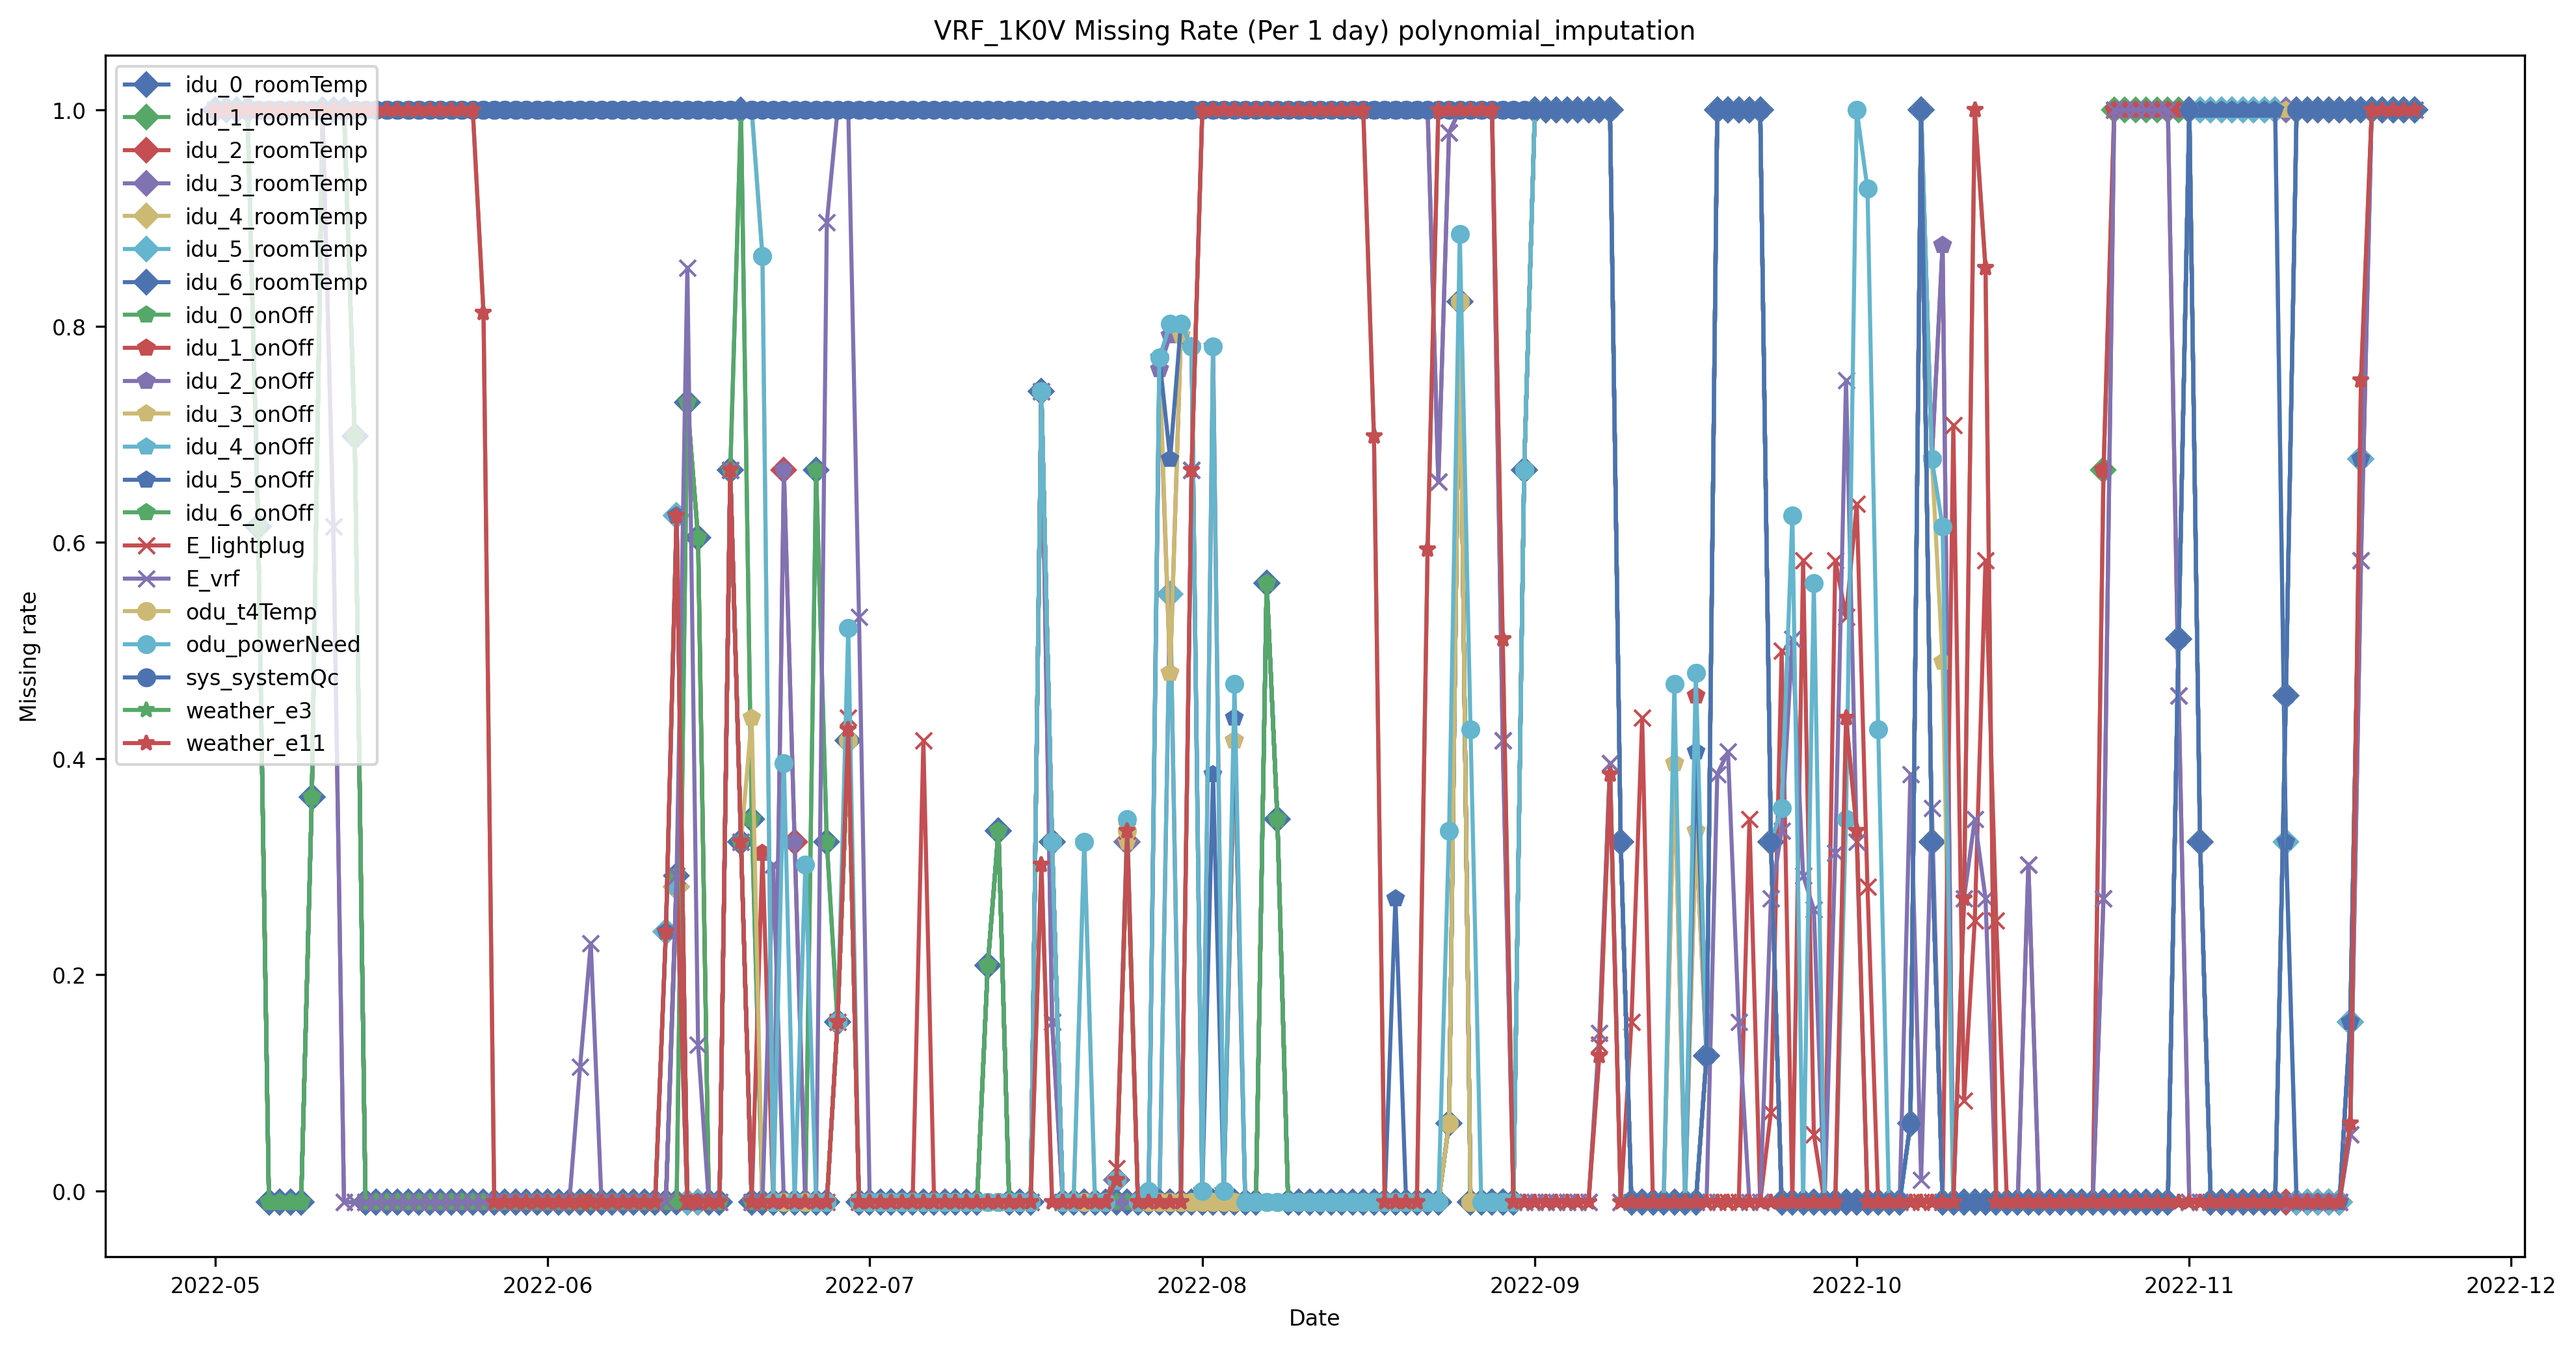
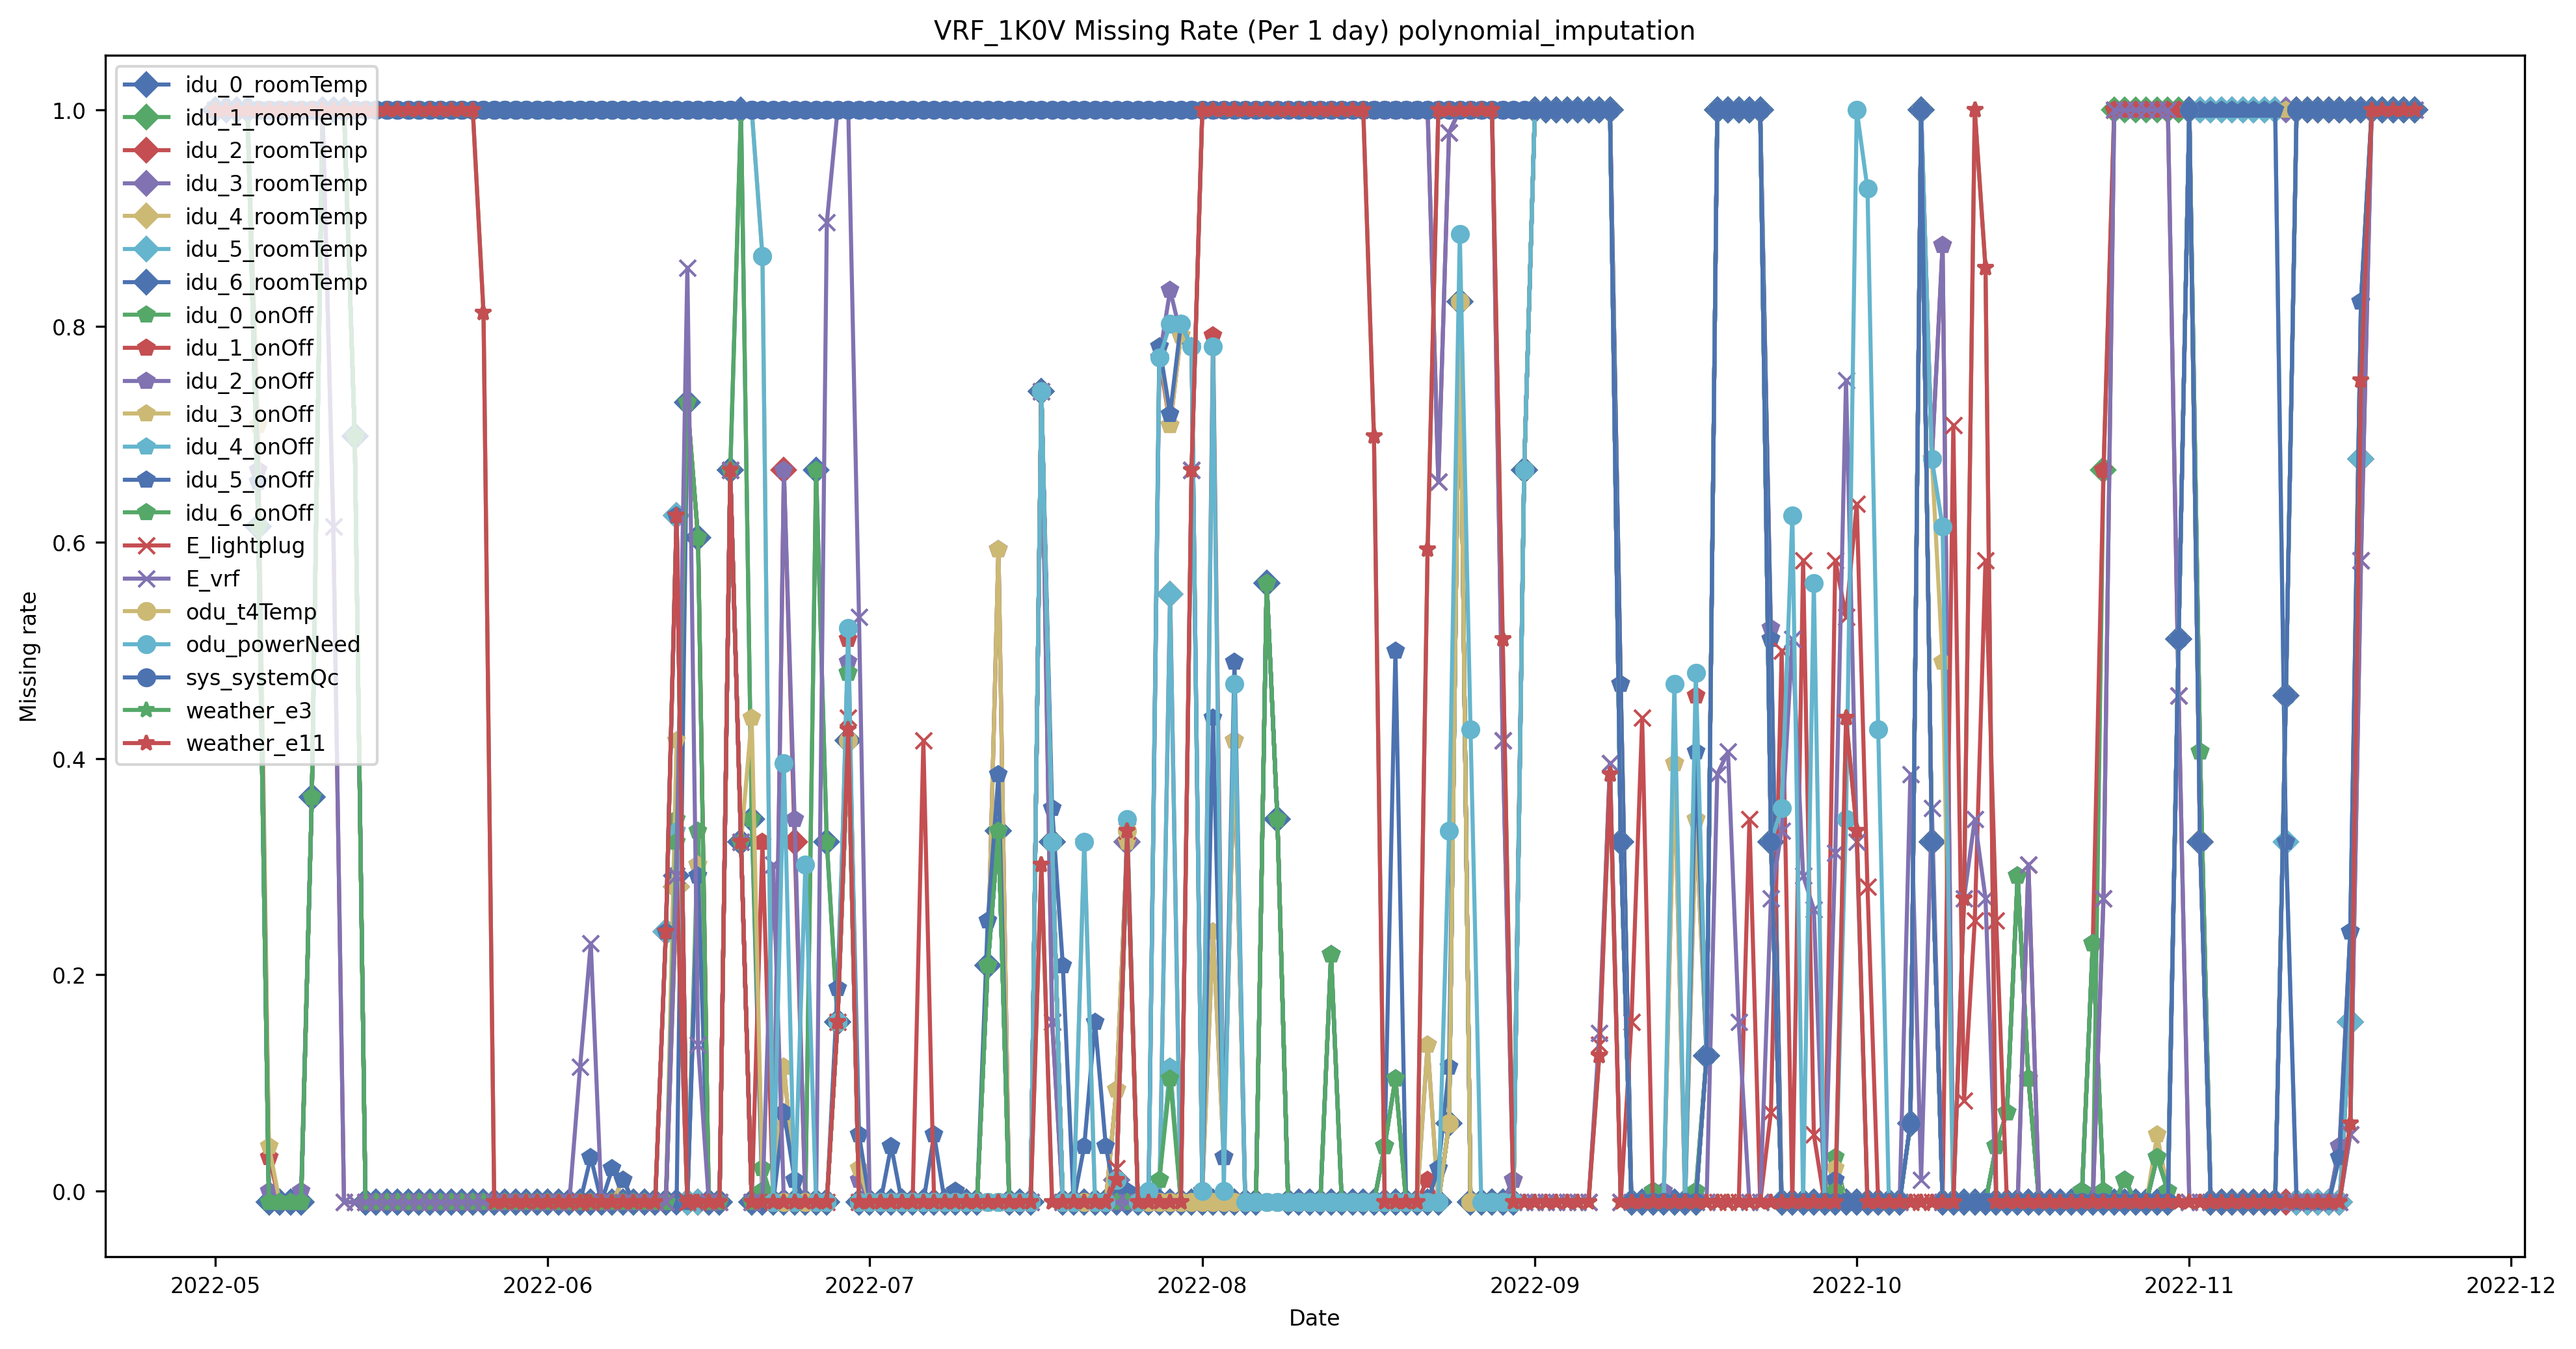
data evaluation and imputation from Influxdb_API

diff --git a/data/data_evaluation2.py b/data/data_evaluation2.py
@@ -1,0 +1,173 @@
+# -*- encoding: utf-8 -*-
+'''
+@File    :   data_evaluation2.py
+@Time    :   2022/12/07 20:33:53
+@Author  :   Zhenyu Wang 
+'''
+'''
+This module is used to evaluate data by missing rate.
+The data format (data frame) comes from Influx_API.
+'''
+
+import os
+import sys
+import matplotlib.pyplot as plt
+from matplotlib.pylab import mpl
+import numpy as np
+import utility as util
+import pandas as pd
+import pickle
+import copy
+from Influxdb_API.Influxdb_API import ClientInfluxdb
+
+plt.style.use('seaborn-deep')
+mpl.rcParams['axes.unicode_minus'] = False
+mpl.rcParams['font.size'] = 8
+
+
+def resampling(data_frame, rsp_time='15min'):
+    df_rsp = copy.deepcopy(data_frame)
+    return df_rsp.resample(rsp_time).mean()
+
+def cal_missing_rate(data_frame, time_window, params):
+    '''
+    Calculates the missing rate of a data_frame
+    '''
+
+    missing_rate = pd.DataFrame(data=None, columns=data_frame.columns)
+    # date = []
+    for i in range(0, (params['end_time']-params['start_time']).days//time_window):
+        time1 = params['start_time'] + pd.to_timedelta(time_window*i, unit='D')
+        time2 = params['start_time'] + pd.to_timedelta(time_window*(i+1), unit='D')
+        # date.append(time1)
+        for col in data_frame.columns:
+            ms = pd.DataFrame([1 - data_frame[col].loc[time1:time2].count() / (params['rsp_num']*time_window*24)], index=[time1], columns=[col])
+            missing_rate = missing_rate.append(ms)
+    # missing_rate.index = date
+
+    return missing_rate
+
+def plot_missing_rate(missing_rate, time_window, params, mark):
+    '''
+    Plot missing rate over time
+    '''
+    id = params['tag_dict']['nid'].split('/')[-3][-4:]
+    label = params['tag_dict']['nid'].split('/')[-2] + '_' + params['tag_dict']['nid'].split('/')[-1]
+
+    plt.plot(missing_rate.index, missing_rate, label=label, marker='*')
+
+    plt.title(id + f' Missing Rate (Per {time_window} day) ' + mark)
+    plt.xlabel("Date")
+    plt.ylabel("Missing rate")
+    plt.legend(loc = 'upper left')
+
+    plt.gcf().set_size_inches(16, 8)
+    plt.savefig(f'./results/data_evaluation/'+id+f' Missing Rate (Per {time_window} day) '+mark+'.png', dpi=300, bbox_inches='tight', pad_inches=0.1)
+    # plt.show()
+    
+    plt.close()
+    # plt.clf()
+
+    print(id + f' Missing Rate (Per {time_window} day) ' + mark)
+    return
+
+def remove_outliers(data_frame):
+    '''remove outliers in a data_frame'''
+
+    # 删除小于0的值
+    data_frame[data_frame < 0]  = np.nan
+    # 利用箱线图去除离群值, 会把不是异常值的判定为异常值
+    Dcos = data_frame.quantile(0.95) - data_frame.quantile(0.05)
+    L = data_frame.quantile(0.05) - 1.5 * Dcos
+    U = data_frame.quantile(0.95) + 1.5 * Dcos
+    data_frame[data_frame < L] = np.nan
+    data_frame[data_frame > U] = np.nan
+
+    return data_frame
+
+def linear_imputation(data_frame, imputation_time_delta, sampling_time_delta):
+    '''
+    Linear interpolation of a data_frame
+
+    data_frame: data that belongs to the "data_frame" format.
+    imputation_time_delta: data loss for more than consecutive imputation_time_delta will not be interpolated.
+    sampling_time_delta: sampling interval (15min).
+    '''
+
+    for col in data_frame.columns:
+        # 不对启停数据进行插值
+        if col == 'onOff': continue
+        series = data_frame[col]
+
+        # 获取空值索引
+        series_nan = series[series.isna()]
+        series_nan_index = series_nan.index
+        if series_nan_index.empty: continue
+        
+        # 获取小于imputation_time_delta的空值索引
+        col_imputation_list = []
+        start = series_nan_index[0]
+        temp = series_nan_index[0]
+        end = series_nan_index[0]
+        for i in range(len(series_nan_index)-1):
+            end = series_nan_index[i+1]
+            if (end-temp) == sampling_time_delta:
+                temp = end
+            else:
+                if (temp - start) <= imputation_time_delta and (start!=series.head(1).index and end!=series.tail(1).index):
+                    col_imputation_list.append([start, temp])
+                start = end
+                temp = end
+        if (temp - start) <= imputation_time_delta and (start!=series.head(1).index and end!=series.tail(1).index):
+            col_imputation_list.append([start, temp])
+
+        # 对满足imputation_time_delta的空值进行线性插值
+        for imputation in col_imputation_list:
+            data_frame[col].loc[imputation[0]-sampling_time_delta: imputation[1]+sampling_time_delta] = \
+                series.loc[imputation[0]-sampling_time_delta: imputation[1]+sampling_time_delta].interpolate(method='polynomial', order=1)
+        
+    return data_frame
+
+
+
+# 1.Get data from Influxdb_API
+db_name='moserver'
+params={
+    'measurement_name':'modata',
+    'start_time': pd.to_datetime('2022-11-01 00:00:00'),
+    'end_time': pd.to_datetime('2022-12-08 00:00:00'),
+    'field_list': ['roomTemp'],
+    'tag_dict': {'nid': 'vrf/vrf_0000CC311178CCM26232341000271K0V/indoor/0'},
+    'fore': False,
+    'fore_horizon': None,
+    'interval': None
+}
+db_client = ClientInfluxdb(db_name=db_name) 
+df = db_client.read_influxdb(**params)
+# str -> np.float64
+for col in df.columns:
+    df[col] = pd.to_numeric(df[col], errors='ignore')
+print('data acquired')
+
+params_process={
+    'start_time': pd.to_datetime('2022-11-01 00:00:00'),
+    'end_time': pd.to_datetime('2022-12-08 00:00:00'),
+    'rsp_time': pd.Timedelta('15 min'),
+    'rsp_num': 4,
+    'imputation_time_delta': pd.Timedelta('6 hours')
+}
+# resampling data, rsp_time=15min
+df = resampling(df, params_process['rsp_time'])
+
+
+# 2.Evaluate missing rate of data_origin/remove_otliers/linear_imputation and save results
+missing_rate = cal_missing_rate(df, 3, params_process)
+plot_missing_rate(missing_rate, 3, params, mark='origin')
+
+df_process = remove_outliers(df)
+missing_rate_process = cal_missing_rate(df_process, 3, params_process)
+plot_missing_rate(missing_rate_process, 3, params, mark='remove_outliers')
+
+df_new = linear_imputation(df_process, params_process['imputation_time_delta'], params_process['rsp_time'])
+missing_rate_new = cal_missing_rate(df_new, 3, params_process)
+plot_missing_rate(missing_rate_new, 3, params, mark='polynomial_imputation')

diff --git a/data/data_evaluation.py b/data/data_evaluation.py
@@ -168,12 +168,14 @@ def linear_imputation_df(data_frame, imputation_time_delta, sampling_time_delta)
     '''
     Linear interpolation of a data_frame
 
-    data_frame: ata that belongs to the "data_frame" format.
+    data_frame: data that belongs to the "data_frame" format.
     imputation_time_delta: data loss for more than consecutive imputation_time_delta will not be interpolated.
     sampling_time_delta: sampling interval (15min).
     '''
 
     for col in data_frame.columns:
+        # 不对启停数据进行插值
+        if col == 'onOff': continue
         series = data_frame[col]
 
         # 获取空值索引
